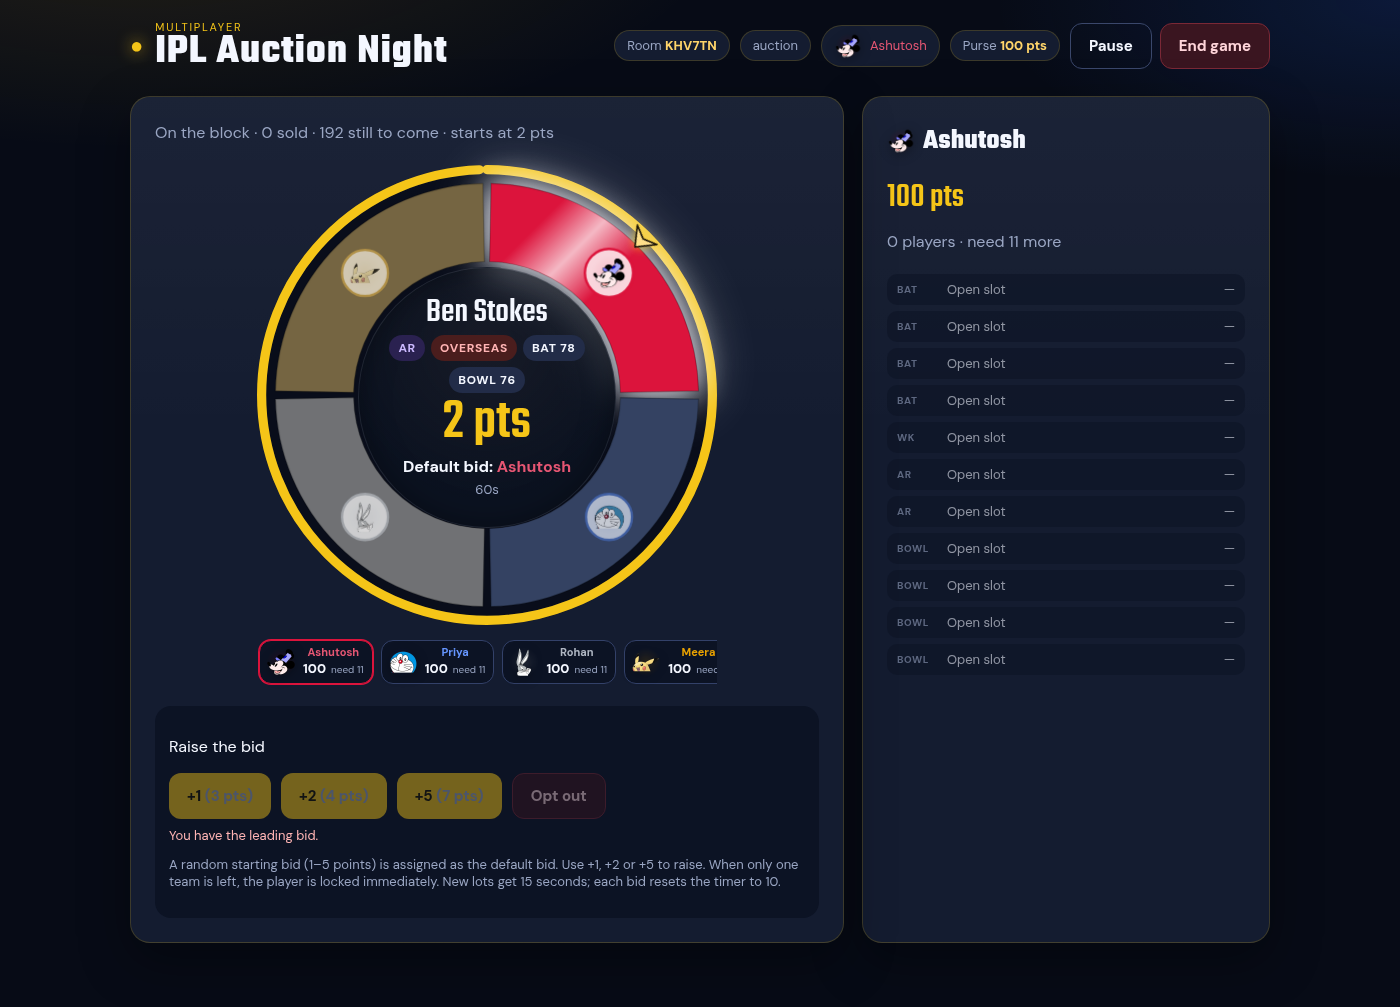
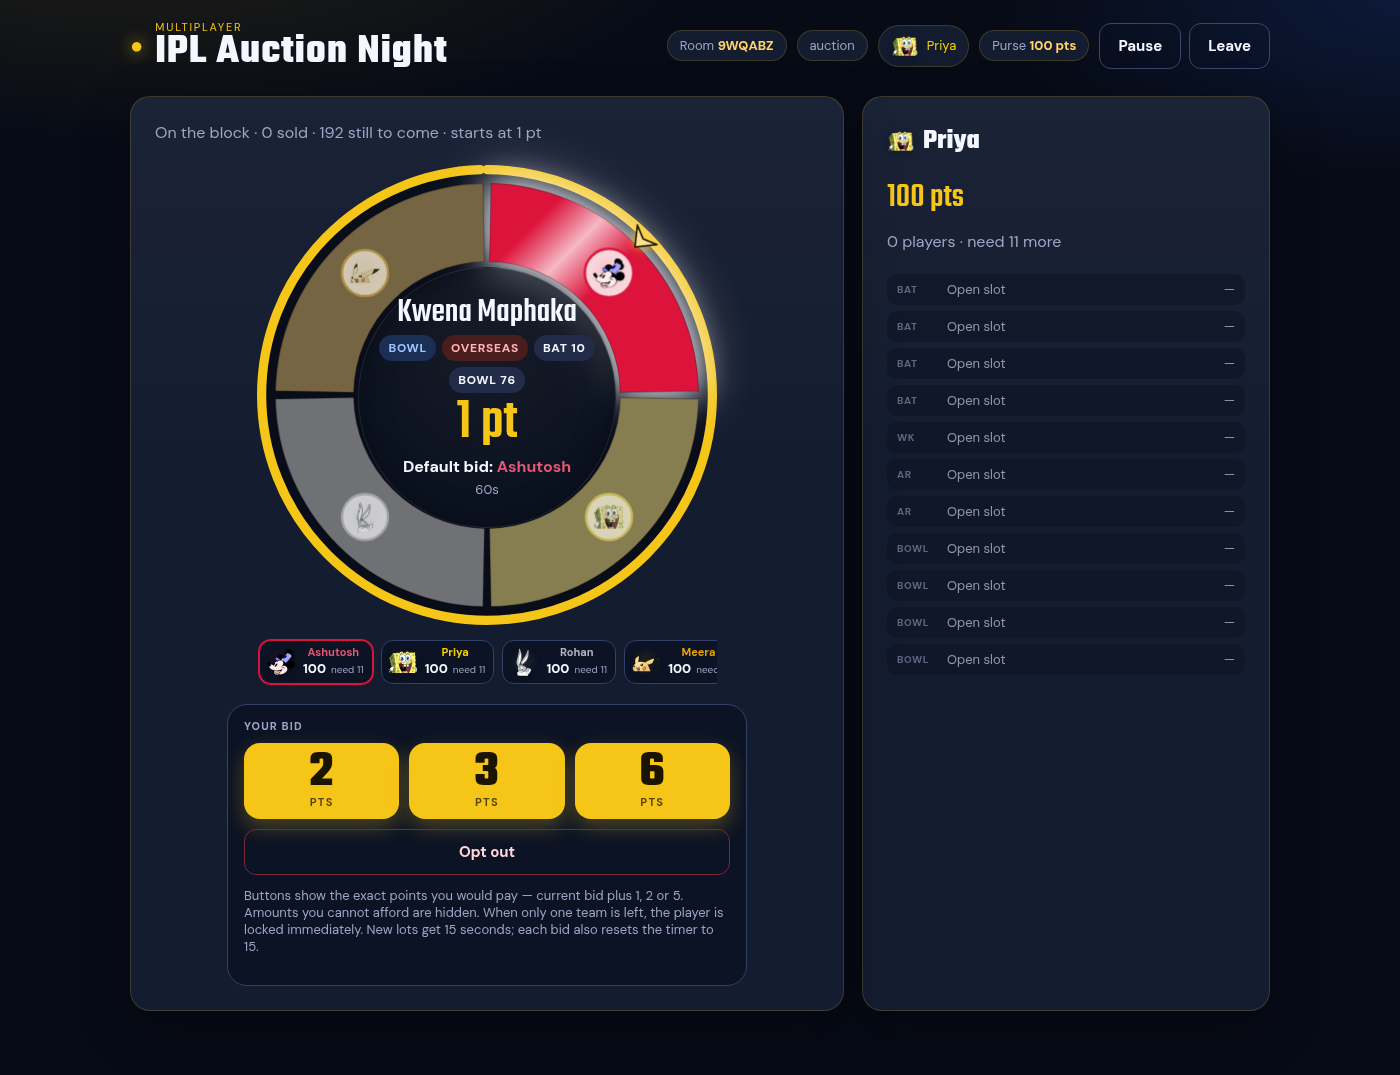
Show exact bid amounts on large buttons, with a sticky bid bar on phones.
The three raise buttons now display the points you would pay (for example 6, 7 and 10) instead of +1/+2/+5. Unaffordable amounts and ineligible teams are hidden, and the labels update live as the bid changes.

diff --git a/public/styles.css b/public/styles.css
@@ -100,7 +100,59 @@ input:focus, select:focus { border-color: var(--gold); }
 .still-item .who { font-weight: 700; }
 .still-item .meta { color: var(--muted); font-size: 12px; }
 
-.bid-box { margin-top: 16px; background: #0c1324; border-radius: 16px; padding: 14px; }
+.bid-box {
+  margin: 14px auto 0;
+  background: #0c1324;
+  border: 1px solid #334169;
+  border-radius: 20px;
+  padding: 14px 16px 16px;
+  width: 100%;
+  max-width: min(520px, 100%);
+}
+.bid-label {
+  margin: 0 0 10px;
+  color: var(--muted);
+  font-size: 11px;
+  font-weight: 700;
+  letter-spacing: 0.1em;
+  text-transform: uppercase;
+}
+.bid-bar { display: grid; gap: 10px; margin: 0; }
+.bid-raises { display: flex; gap: 10px; align-items: stretch; }
+.bid-amt {
+  flex: 1 1 0;
+  display: flex; flex-direction: column; align-items: center; justify-content: center;
+  gap: 0;
+  min-height: 76px; min-width: 0;
+  border-radius: 16px; padding: 8px 6px 10px;
+  background: var(--gold); color: #1a1400;
+  box-shadow: 0 8px 20px rgba(245, 197, 24, 0.28);
+  line-height: 1;
+}
+.bid-amt-num {
+  font-family: var(--display);
+  font-size: clamp(36px, 7vw, 52px);
+  font-weight: 700;
+  letter-spacing: 0.01em;
+  line-height: 0.85;
+}
+.bid-amt-unit {
+  margin-top: 2px;
+  font-size: 11px; font-weight: 800;
+  letter-spacing: 0.12em; text-transform: uppercase;
+  opacity: 0.72;
+}
+.bid-amt:disabled { box-shadow: none; }
+.bid-optout {
+  justify-self: stretch;
+  min-height: 44px;
+  background: transparent;
+  color: #ffd5da;
+  border: 1px solid #7a2836;
+  box-shadow: none;
+  font-size: 15px;
+}
+.bid-optout:not(:disabled):hover { background: #3a1520; }
 .chips { display: flex; flex-wrap: wrap; gap: 8px; margin: 8px 0 12px; }
 .chip { background: #1c2744; color: var(--text); border: 1px solid #334169; border-radius: 999px; padding: 6px 10px; font-size: 13px; }
 .chip:hover { border-color: var(--gold); }
@@ -150,7 +202,6 @@ th { color: var(--muted); font-size: 12px; letter-spacing: 0.06em; text-transfor
 .name-bar input { max-width: 360px; }
 .home { display: flex; flex-direction: column; gap: 24px; }
 .bid-steps { flex-wrap: wrap; }
-.bid-steps .btn { min-width: 92px; }
 .prep-layout { display: grid; gap: 18px; grid-template-columns: 1.1fr 0.9fr; }
 @media (max-width: 900px) { .prep-layout { grid-template-columns: 1fr; } }
 .booster-grid { display: grid; gap: 10px; }
@@ -399,4 +450,45 @@ th { color: var(--muted); font-size: 12px; letter-spacing: 0.06em; text-transfor
   .sold-card { padding: 22px 16px 28px; border-radius: 22px; }
   .sold-logo .team-mark-wrap, .sold-logo .team-mark-img { width: 76px; height: 76px; }
   .sold-card #sold-continue { min-width: 140px; width: 100%; }
+}
+
+@media (max-width: 700px) {
+  html.is-auction #app { padding: 10px 12px 176px; }
+  html.is-auction .toast { bottom: 168px; }
+  html.is-auction .topbar { margin-bottom: 10px; align-items: flex-start; gap: 8px; }
+  html.is-auction .brand-kicker { display: none; }
+  html.is-auction .brand h1 { font-size: 28px; }
+  html.is-auction .panel { padding: 12px 12px 10px; }
+  html.is-auction .player-card > .lede { font-size: 12px; margin-bottom: 8px; }
+  html.is-auction .ring-wrap { width: min(300px, 100%, calc(100dvh - 360px)); }
+  html.is-auction .team-strip { margin-bottom: 2px; }
+  .bid-box {
+    position: fixed;
+    left: 0; right: 0; bottom: 0;
+    z-index: 30;
+    max-width: none;
+    width: 100%;
+    margin: 0;
+    border-radius: 20px 20px 0 0;
+    border-left: 0; border-right: 0; border-bottom: 0;
+    border-top: 1px solid var(--line);
+    padding: 12px 14px calc(12px + env(safe-area-inset-bottom, 0px));
+    box-shadow: 0 -16px 40px rgba(0, 0, 0, 0.5);
+    background: #0c1324;
+  }
+  .bid-label { margin-bottom: 8px; }
+  .bid-raises { gap: 8px; }
+  .bid-amt {
+    min-height: 68px;
+    border-radius: 14px;
+    padding: 8px 4px 8px;
+    box-shadow: 0 4px 14px rgba(245, 197, 24, 0.3);
+  }
+  .bid-amt-num { font-size: 40px; }
+  .bid-optout {
+    width: 100%;
+    min-height: 46px;
+    border-radius: 12px;
+  }
+  .bid-box .hint { display: none; }
 }

diff --git a/test/infra.test.js b/test/infra.test.js
@@ -3,7 +3,7 @@ const assert = require("node:assert/strict");
 const { loadPlayers } = require("../server/players");
 const { GameRoom } = require("../server/game");
 const { RoomManager, makeRoomCode, ROOM_CODE_LENGTH, ROOM_CODE_ALPHABET } = require("../server/manager");
-const { applyDelta } = require("../public/state");
+const { applyDelta, bidChoices, canAffordAmount } = require("../public/state");
 
 class FakeClock {
   constructor(start = 1_000_000) {
@@ -314,5 +314,71 @@ describe("delta events and lite results", () => {
     assert.equal(state.you.purseLakhs, 9800);
     assert.equal(state.you.roleCounts.BAT, 1);
     assert.equal(state.auction, null);
+  });
+});
+
+describe("bid button amounts", () => {
+  function stateFor(overrides = {}) {
+    return {
+      paused: Boolean(overrides.paused),
+      you: {
+        name: "Priya",
+        purseLakhs: 100,
+        squad: [],
+        complete: false,
+        eliminated: false,
+        remainingQuota: { BAT: 4, WK: 1, AR: 2, BOWL: 4 },
+        ...(overrides.you || {}),
+      },
+      auction: overrides.auction === null ? null : {
+        nominee: { id: "virat-kohli", name: "Virat Kohli", role: "BAT" },
+        currentBidLakhs: 5,
+        bidSteps: [1, 2, 5],
+        youCanBid: true,
+        youCanOptOut: true,
+        youReason: null,
+        ...(overrides.auction || {}),
+      },
+    };
+  }
+
+  test("labels are the absolute bid amounts, not +1/+2/+5", () => {
+    const choices = bidChoices(stateFor());
+    assert.deepEqual(choices.options.map((o) => o.amount), [6, 7, 10]);
+    assert.deepEqual(choices.options.map((o) => o.label), ["6 pts", "7 pts", "10 pts"]);
+    assert.equal(choices.options.every((o) => o.show && o.enabled), true);
+    assert.equal(choices.canOptOut, true);
+  });
+
+  test("hides amounts that would break the 1-point reserve, and updates when the bid rises", () => {
+    const state = stateFor({ you: { purseLakhs: 17 } });
+    // After buying a BAT, 10 role slots remain, so reserve is 10. 17-6 and 17-7 leave enough; 17-10 does not.
+    assert.equal(canAffordAmount(state.you, state.auction, 6), true);
+    assert.equal(canAffordAmount(state.you, state.auction, 7), true);
+    assert.equal(canAffordAmount(state.you, state.auction, 10), false);
+    let choices = bidChoices(state);
+    assert.deepEqual(choices.options.filter((o) => o.show).map((o) => o.amount), [6, 7]);
+
+    state.auction.currentBidLakhs = 8;
+    choices = bidChoices(state);
+    assert.deepEqual(choices.options.map((o) => o.amount), [9, 10, 13]);
+    assert.deepEqual(choices.options.filter((o) => o.show).map((o) => o.amount), []);
+  });
+
+  test("hides bid amounts when the team cannot bid, and disables them while paused", () => {
+    const leading = bidChoices(stateFor({
+      auction: { currentBidLakhs: 5, youCanBid: false, youCanOptOut: false, youReason: "You have the leading bid." },
+    }));
+    assert.equal(leading.options.every((o) => o.show === false), true);
+    assert.equal(leading.canOptOut, false);
+
+    const done = bidChoices(stateFor({
+      you: { complete: true, remainingQuota: { BAT: 0, WK: 0, AR: 0, BOWL: 0 } },
+    }));
+    assert.equal(done.options.every((o) => o.show === false), true);
+
+    const paused = bidChoices(stateFor({ paused: true }));
+    assert.equal(paused.options.every((o) => o.show && !o.enabled), true);
+    assert.equal(paused.canOptOut, false);
   });
 });

diff --git a/public/app.js b/public/app.js
@@ -456,15 +456,6 @@ function teamStripHtml(a) {
     .join("");
 }
 
-function canPayStep(step) {
-  const a = state && state.auction;
-  const you = state && state.you;
-  if (!a || !a.youCanBid || !you) return false;
-  const amount = a.currentBidLakhs + step;
-  const slotsAfter = Math.max(0, 11 - ((you.squad || []).length + 1));
-  return you.purseLakhs - amount >= slotsAfter * 1;
-}
-
 function leaderLine(a) {
   if (!a) return "";
   if (a.isDefaultBidLeading) {
@@ -477,15 +468,19 @@ function leaderLine(a) {
 }
 
 function bidButtonsHtml(a) {
-  const steps = (a && a.bidSteps) || [1, 2, 5];
-  const current = a ? a.currentBidLakhs : 0;
-  return steps
-    .map((step) => {
-      const amount = current + step;
-      const on = canPayStep(step) && !(state && state.paused);
-      return `<button class="btn" data-step="${step}" ${on ? "" : "disabled"}>+${step} <span class="lede" style="display:inline;margin:0">(${money(amount)})</span></button>`;
+  const choices = (window.IplState && IplState.bidChoices(state)) || { options: [], canOptOut: false };
+  const raises = choices.options
+    .filter((o) => o.show)
+    .map((o) => {
+      return `<button class="btn bid-amt" data-step="${o.step}" aria-label="Bid ${o.amount} points" ${o.enabled ? "" : "disabled"}>
+        <span class="bid-amt-num">${o.amount}</span>
+        <span class="bid-amt-unit">pt${o.amount === 1 ? "" : "s"}</span>
+      </button>`;
     })
-    .join("") + `<button class="btn danger" id="optout" ${a && a.youCanOptOut && !(state && state.paused) ? "" : "disabled"}>Opt out</button>`;
+    .join("");
+  const opt = `<button class="btn bid-optout" id="optout" ${choices.canOptOut ? "" : "disabled"}>Opt out</button>`;
+  const raisesWrap = raises ? `<div class="bid-raises">${raises}</div>` : "";
+  return `${raisesWrap}${opt}`;
 }
 
 function auctionView() {
@@ -526,11 +521,11 @@ function auctionView() {
           </div>
           <div class="team-strip" id="team-strip">${teamStripHtml(a)}</div>
         </div>
-        <div class="bid-box">
-          <p class="label">Raise the bid</p>
-          <div class="actions bid-steps" id="bid-actions">${bidButtonsHtml(a)}</div>
+        <div class="bid-box" id="bid-box">
+          <p class="bid-label">Your bid</p>
+          <div class="bid-bar" id="bid-actions">${bidButtonsHtml(a)}</div>
           ${a.youReason ? `<p class="why" id="bid-why">${esc(a.youReason)}</p>` : `<p class="why" id="bid-why" hidden></p>`}
-          <p class="hint">A random starting bid (1–5 points) is assigned as the default bid. Use +1, +2 or +5 to raise. When only one team is left, the player is locked immediately. New lots get 15 seconds; each bid also resets the timer to 15.</p>
+          <p class="hint">Buttons show the exact points you would pay — current bid plus 1, 2 or 5. Amounts you cannot afford are hidden. When only one team is left, the player is locked immediately. New lots get 15 seconds; each bid also resets the timer to 15.</p>
           <p class="error">${esc(lastError)}</p>
         </div>
       </div>
@@ -901,6 +896,8 @@ function wireGlobal() {
 }
 
 function render() {
+  const auctionLive = Boolean(state && state.phase === "auction" && state.auction);
+  document.documentElement.classList.toggle("is-auction", auctionLive);
   syncOverlays();
   renderTop();
   if (!state || !state.phase || !state.code || state.phase === "ended") {

diff --git a/public/state.js b/public/state.js
@@ -57,6 +57,59 @@
     if (live) state.you = { ...live, isYou: true };
   }
 
+  const BID_STEPS = [1, 2, 5];
+  const ROLE_ORDER = ["BAT", "WK", "AR", "BOWL"];
+
+  function canVoluntaryBid(you, auction) {
+    if (!you || !auction) return false;
+    if (you.eliminated || you.complete) return false;
+    const role = auction.nominee && auction.nominee.role;
+    if (role && you.remainingQuota && (you.remainingQuota[role] || 0) <= 0) return false;
+    return true;
+  }
+
+  function canAffordAmount(you, auction, amount) {
+    if (!canVoluntaryBid(you, auction)) return false;
+    const bid = Number(amount);
+    if (!Number.isFinite(bid) || bid > you.purseLakhs) return false;
+    const needed = { BAT: 0, WK: 0, AR: 0, BOWL: 0, ...(you.remainingQuota || {}) };
+    const role = auction.nominee && auction.nominee.role;
+    if (role && Object.prototype.hasOwnProperty.call(needed, role)) {
+      needed[role] = Math.max(0, (needed[role] || 0) - 1);
+    }
+    const reserve = ROLE_ORDER.reduce((sum, r) => sum + Math.max(0, needed[r] || 0), 0);
+    return you.purseLakhs - bid >= reserve;
+  }
+
+  function bidChoices(state) {
+    const a = state && state.auction;
+    const you = state && state.you;
+    const paused = Boolean(state && state.paused);
+    const steps = (a && a.bidSteps && a.bidSteps.length) ? a.bidSteps : BID_STEPS;
+    const current = a ? Number(a.currentBidLakhs) || 0 : 0;
+    const canBid = Boolean(a && you && a.youCanBid && canVoluntaryBid(you, a));
+    const options = steps.map((step) => {
+      const amount = current + step;
+      const affordable = canBid && canAffordAmount(you, a, amount);
+      return {
+        step,
+        amount,
+        label: `${amount} pt${amount === 1 ? "" : "s"}`,
+        affordable,
+        show: affordable,
+        enabled: affordable && !paused,
+      };
+    });
+    return {
+      current,
+      options,
+      canBid,
+      canOptOut: Boolean(a && a.youCanOptOut && !paused),
+      youReason: (a && a.youReason) || null,
+      paused,
+    };
+  }
+
   function applyDelta(state, evt) {
     if (!state || !evt) return state;
     const quotas = state.quotas || DEFAULT_QUOTA;
@@ -190,5 +243,5 @@
     return state;
   }
 
-  return { applyDelta, decorateAuctionYou, recomputeTeam };
+  return { applyDelta, decorateAuctionYou, recomputeTeam, canAffordAmount, canVoluntaryBid, bidChoices };
 });

diff --git a/scripts/playcheck-ui.js b/scripts/playcheck-ui.js
@@ -28,9 +28,9 @@ async function waitFor(page, fn, timeout = 20000, label = "condition") {
   throw new Error(`timeout waiting for ${label}`);
 }
 
-async function shot(page, name) {
+async function shot(page, name, opts = {}) {
   const dest = path.join(OUT, name);
-  await page.screenshot({ path: dest, fullPage: true });
+  await page.screenshot({ path: dest, fullPage: opts.fullPage !== false });
   console.log("wrote", dest);
   return dest;
 }
@@ -108,13 +108,24 @@ async function main() {
       const n = await ash.evaluate(() => (IplApp.state.auction && IplApp.state.auction.stillIn && IplApp.state.auction.stillIn.length) || 0);
       return n >= 3;
     }, 8000, "several teams still in");
-    await sleep(400);
-    await shot(ash, "auction-ring.png");
-    await shot(ash, "auction.png");
 
-    const defaultName = await ash.evaluate(() => IplApp.state.auction.currentBidderName);
     const pages = [ash, ...others];
     const names = await Promise.all(pages.map((p) => p.evaluate(() => IplApp.state.you && IplApp.state.you.name)));
+    let bidderPage = null;
+    for (let i = 0; i < pages.length; i++) {
+      const can = await pages[i].evaluate(() => Boolean(IplApp.state && IplApp.state.auction && IplApp.state.auction.youCanBid));
+      if (can) { bidderPage = pages[i]; break; }
+    }
+    if (!bidderPage) bidderPage = others[0] || ash;
+    await sleep(400);
+    await shot(bidderPage, "auction-ring.png");
+    await shot(bidderPage, "auction.png");
+    await bidderPage.setViewport({ width: 390, height: 844, deviceScaleFactor: 2 });
+    await sleep(200);
+    await shot(bidderPage, "auction-mobile.png", { fullPage: false });
+    await bidderPage.setViewport({ width: 1400, height: 900, deviceScaleFactor: 1 });
+
+    const defaultName = await ash.evaluate(() => IplApp.state.auction.currentBidderName);
     let opted = 0;
     for (let i = 0; i < pages.length; i++) {
       if (names[i] === defaultName) continue;

diff --git a/README.md b/README.md
@@ -14,7 +14,7 @@ This is a local MVP. Nothing is deployed, and no accounts are required.
   - **Default bid:** when a player comes up, one team is automatically given the first bid at that lot's starting price, rotating round-robin in join order. Eliminated teams and teams whose squad is already complete are skipped. A team that still needs players is **never skipped** just because this player's role quota is already full — if nobody outbids, that team **always** keeps the player. There is no unsold path while a default or leading bidder exists.
   - The starting bid is a **random integer from 1 to 5**, chosen by the server when the lot starts. The default bid is placed at that amount.
   - If the chosen team cannot afford that starting bid, that team is **eliminated** immediately — out of the rest of the auction and the tournament, and listed last as "Eliminated - insufficient purse". The default bid then moves to the next team.
-  - **Bid** with the **+1**, **+2** or **+5** buttons (bid = current + n). There is no custom amount box. Once outbid, the default-bid team may bid higher again. Voluntary bids must still leave **1 point per remaining role slot** to complete the squad; the automatic default bid does not apply that reserve check.
+  - **Bid** with three large buttons that show the **exact points** you would pay (the current bid plus 1, 2 or 5 — so a 5-point bid becomes buttons for 6, 7 and 10 pts). Amounts you cannot afford, including those that would break the 1-point-per-remaining-slot reserve, are hidden. The buttons are disabled if you are not eligible (leading, opted out, squad already complete, or the game is paused). There is no custom amount box. Once outbid, the default-bid team may bid higher again. Voluntary bids must still leave **1 point per remaining role slot** to complete the squad; the automatic default bid does not apply that reserve check.
   - **Opt out** of this player (the button is always visible). That decision is final for this lot only. The default (or current leading) bidder cannot opt out while they hold the lead. When only one team remains in the race, bidding **closes immediately** and the player is sold to them.
   - The ring shows **only teams still in** — not opted out or eliminated, and automatically hidden if their *voluntary* role quota is full or they cannot afford a legal bid (the leading default bidder always stays visible). When a team opts out, their segment animates out and the remaining arcs redistribute equally.
   - The player is **locked** to the highest bidder when every other team is out, or when the timer expires with a leading bid. A new player gets **15 seconds**, and each bid also resets the timer to **15 seconds**. After each sale, everyone sees a full-screen "SOLD to [team] for N pts" celebration (with a clap animation) for **up to 5 seconds** before the next lot's timer starts. Anyone can press **Continue** to skip ahead. Unsold lots get a quieter notice with the same Continue button.
